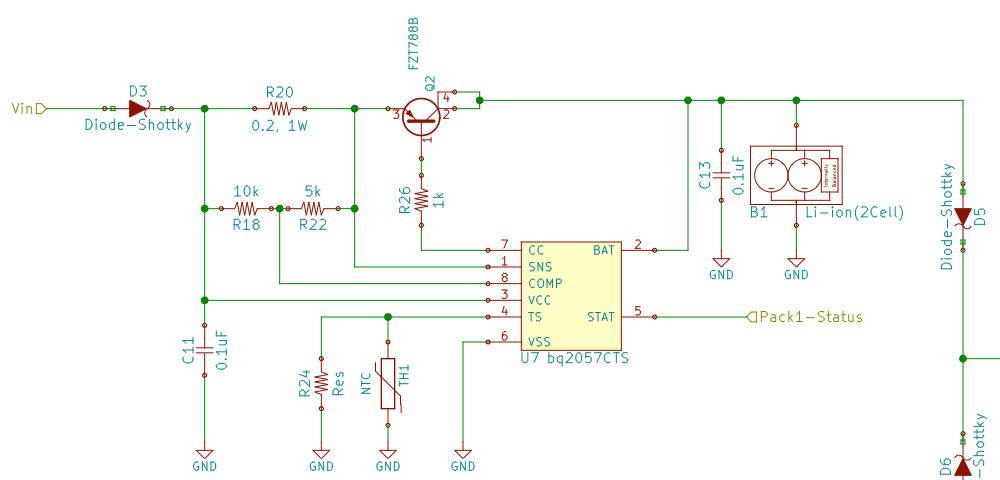
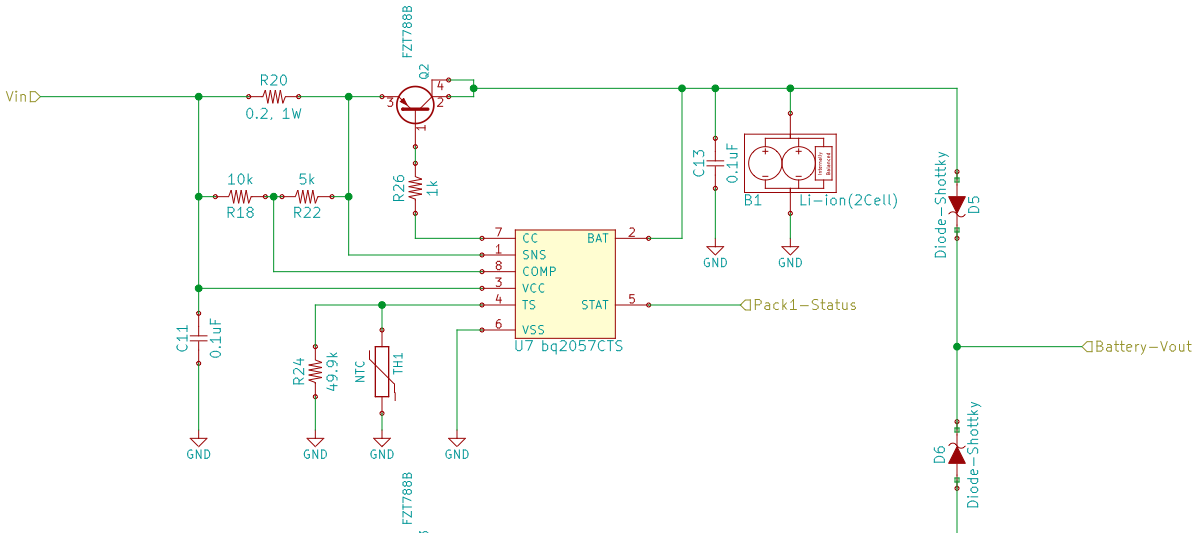
Just need to update the KiCad schematics now

diff --git a/DesignDoc.tex b/DesignDoc.tex
@@ -1,8 +1,3 @@
-%@TODO Make changes from Presentation:
-% Remove Schottky diode from the Battery Management schematic
-
-% Add conclusion section
-
 \documentclass{article}
 % Commands
 \newcommand{\ASSNMT}{Project Necromancer}
@@ -408,8 +403,7 @@ A heat sink also requires a hole to be drilled into the enclosure for the heat s
 \subsection{Hardware Design} \label{sect:hardwaredesign}
 
 \subsubsection{Power Sources}
-
-The system is powered from eight solar cells that have been manufactured by RFCx. These solar panels have been reported to have an open circuit voltage of 1.6V and produce an average of 0.75W each under laboratory conditions. The other power sources on board are two dual-cell 4400mA/Hr lithium-ion (Li-ion) battery packs. As discussed in the MPPT configuration justification, the solar panels will be configured in a way that a pair on an individual petal may be wired in either series or parallel. The pairs will be wired how the end user would like them and the remaining wires will be connected to a terminal block with screw/leaf spring wire termination on the PCB board, which will be powering the MPPT controllers. This is illustrated in Figure \ref{fig:mpptsol}.
+The system is powered from eight solar cells that have been manufactured by RFCx. These solar panels have been reported to have an open circuit voltage of 1.6V and produce an average of 0.75W each under laboratory conditions. The other power sources on board are two dual-cell 4400mA/Hr lithium-ion (Li-ion) battery packs. As discussed in the MPPT configuration justification, the solar panels will be configured in a way that a pair on an individual petal may be wired in either series or parallel. The pairs will be wired how the end user would like them and the remaining wires will be connected to a terminal block with screw/leaf spring wire termination on the PCB, which will be powering the MPPT controllers. This is illustrated in Figure \ref{fig:mpptsol}.
 
 \begin{figure}[H]
 	\centering
